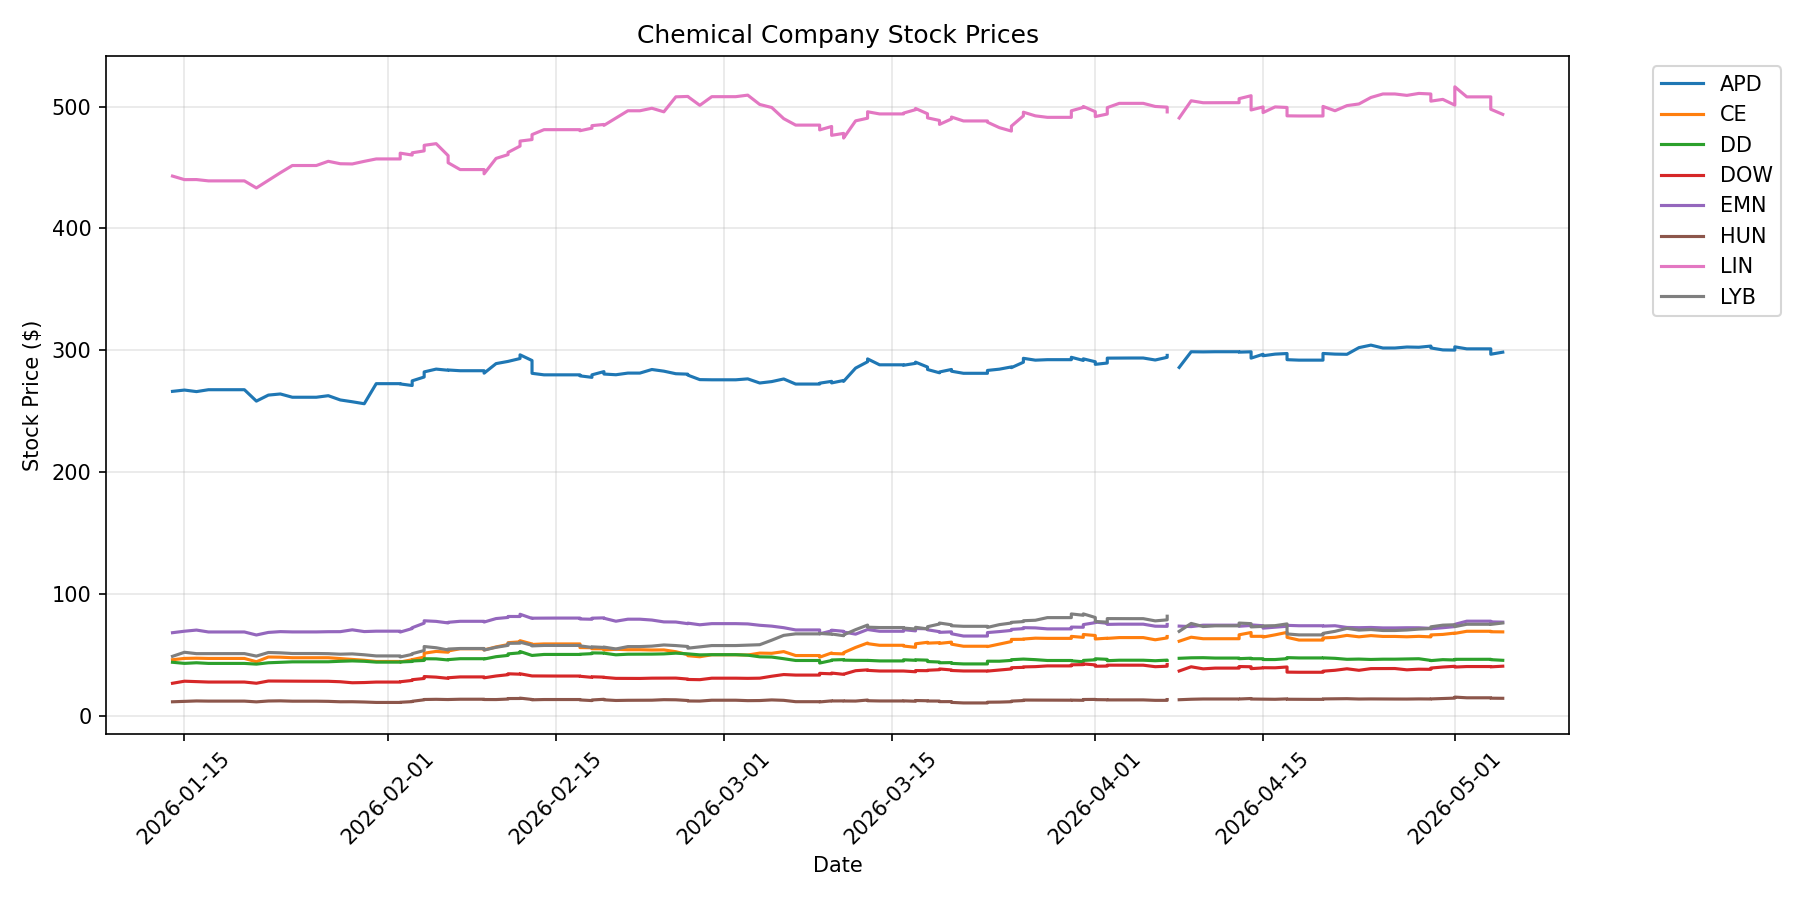
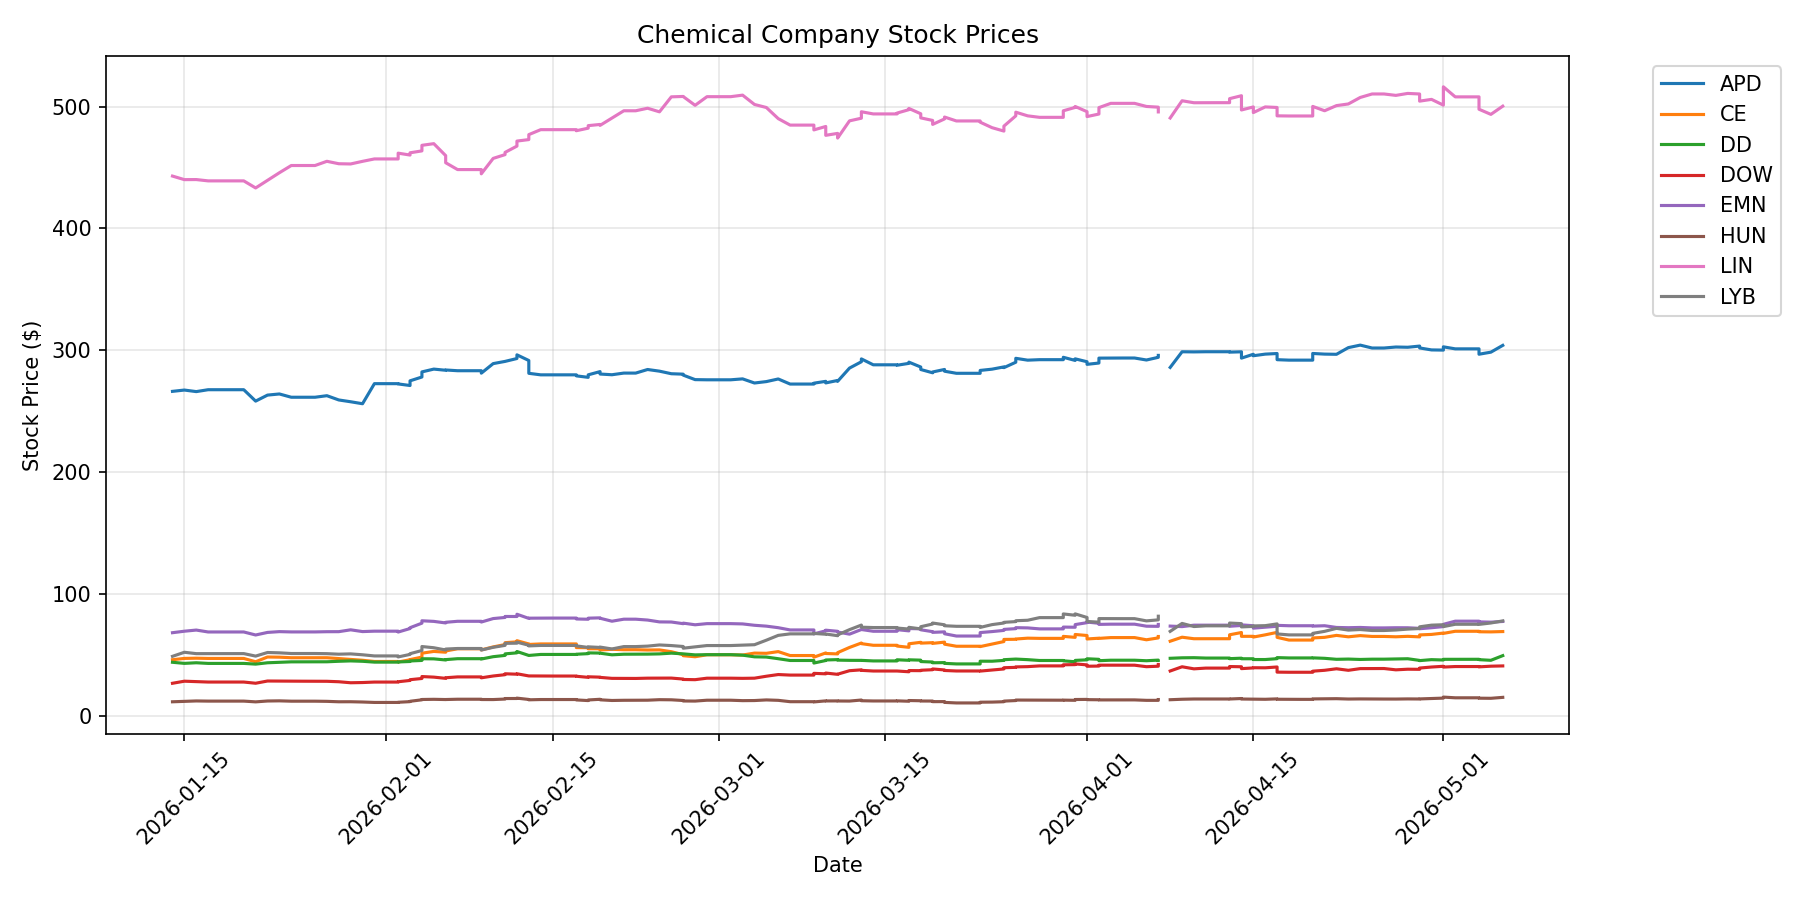
Daily price update: 2026-05-06

diff --git a/README.md b/README.md
@@ -2,29 +2,29 @@
 
 Automated daily tracking of chemical commodity prices and chemical company stocks.
 
-## Latest Prices (Updated: 2026-05-05)
+## Latest Prices (Updated: 2026-05-06)
 
 ### Energy Commodities
 
 | Commodity | Price | Change (24h) | Unit |
 |-----------|-------|--------------|------|
-| WTI Crude Oil | $104.15 | -2.27 (-2.13%) | $/barrel |
-| Brent Crude Oil | $113.05 | -1.39 (-1.21%) | $/barrel |
-| Natural Gas | $2.84 | -0.03 (-0.87%) | $/MMBtu |
-| Heating Oil | $4.01 | -0.06 (-1.45%) | $/gallon |
+| WTI Crude Oil | $100.33 | -1.94 (-1.90%) | $/barrel |
+| Brent Crude Oil | $107.89 | -1.98 (-1.80%) | $/barrel |
+| Natural Gas | $2.78 | -0.01 (-0.39%) | $/MMBtu |
+| Heating Oil | $3.99 | -0.04 (-0.90%) | $/gallon |
 
 ### Chemical Company Stocks
 
 | Company | Ticker | Price | Change (24h) |
 |---------|--------|-------|--------------|
-| Dow Inc. | DOW | $40.58 | +0.29 (+0.72%) |
-| LyondellBasell | LYB | $76.04 | +1.05 (+1.40%) |
-| DuPont | DD | $45.41 | -0.83 (-1.79%) |
-| Air Products | APD | $298.35 | -2.72 (-0.90%) |
-| Linde | LIN | $493.55 | -14.37 (-2.83%) |
-| Eastman Chemical | EMN | $76.72 | -0.81 (-1.04%) |
-| Celanese | CE | $68.74 | -0.50 (-0.72%) |
-| Huntsman | HUN | $14.22 | -0.41 (-2.80%) |
+| Dow Inc. | DOW | $40.80 | +0.22 (+0.54%) |
+| LyondellBasell | LYB | $77.76 | +1.72 (+2.26%) |
+| DuPont | DD | $49.24 | +3.83 (+8.43%) |
+| Air Products | APD | $303.93 | +5.58 (+1.87%) |
+| Linde | LIN | $500.29 | +6.74 (+1.37%) |
+| Eastman Chemical | EMN | $77.29 | +0.57 (+0.74%) |
+| Celanese | CE | $69.01 | +0.27 (+0.39%) |
+| Huntsman | HUN | $14.99 | +0.77 (+5.41%) |
 
 ## Data Sources
 

diff --git a/logs/update_log.md b/logs/update_log.md
@@ -191,3 +191,4 @@ Daily updates to the chemical engineering data repository.
 - **2026-05-04 00:48:15**: Updated 4 energy prices, 8 stocks, 0 FRED series
 - **2026-05-04 14:42:13**: Updated 4 energy prices, 8 stocks, 0 FRED series
 - **2026-05-05 00:33:54**: Updated 4 energy prices, 8 stocks, 0 FRED series
+- **2026-05-06 01:00:16**: Updated 4 energy prices, 8 stocks, 0 FRED series
